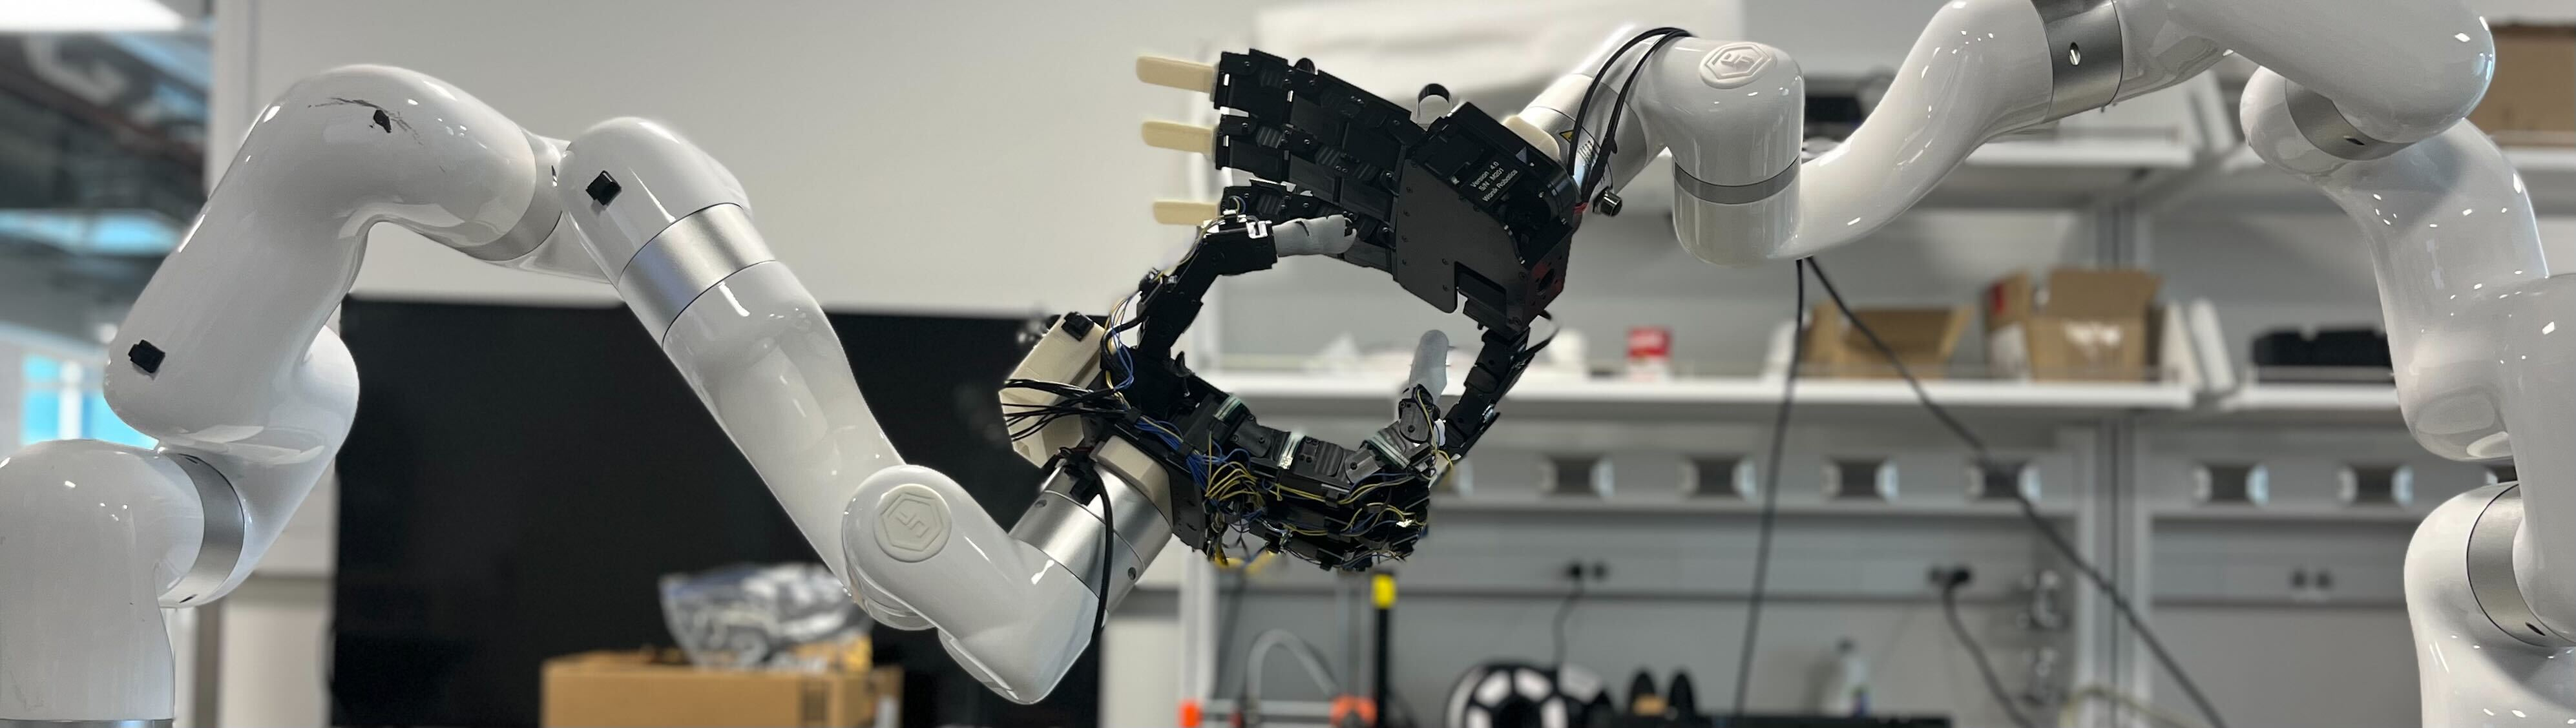
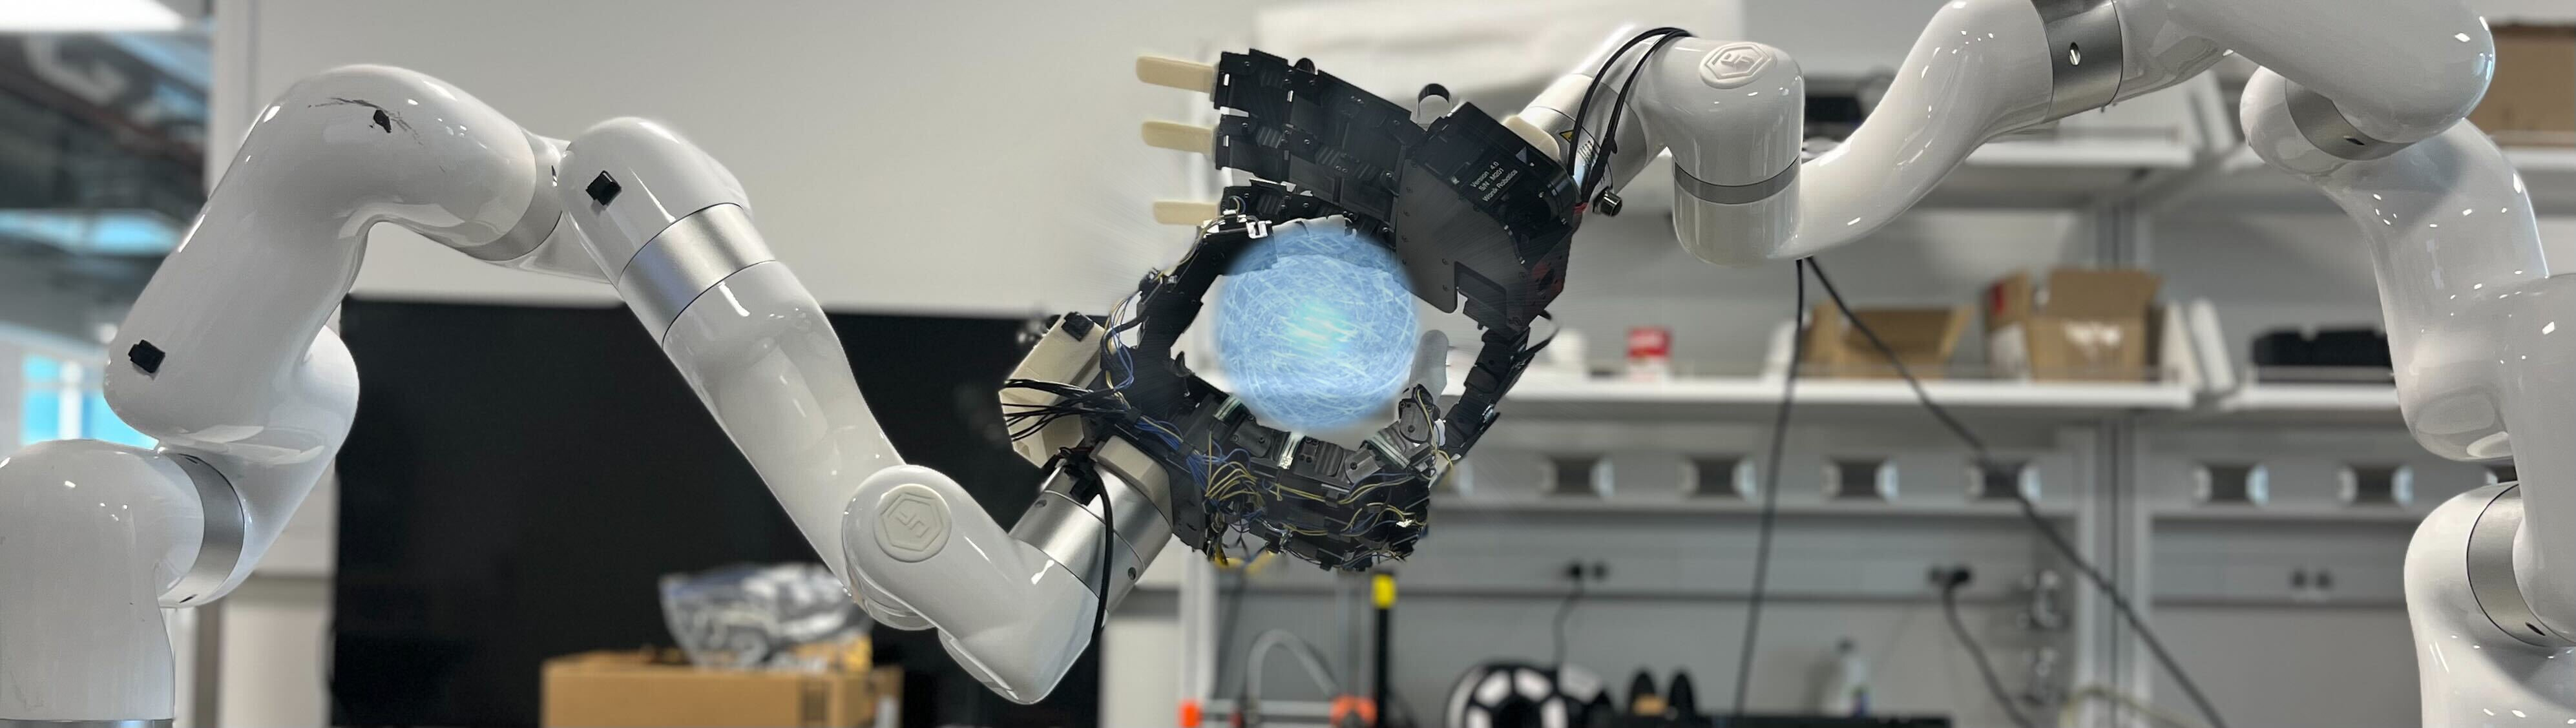
update

Changed region(s): [[0.4043, 0.3106, 0.5909, 0.7764], [0.4665, 0.1242, 0.5909, 0.2795]]

diff --git a/index.html b/index.html
@@ -131,29 +131,6 @@
             <a href="https://space.bilibili.com/1560961">Bilibili Video Channel</a>
 
 
-            <h3 id="professional service">Mentoring</h3>
-            <p style="background-color: lightyellow;">
-              I am always interested in mentoring highly-motivated undergrads/masters in ME/ECE/CS. If you are at
-              <b style="color: rgb(12, 140, 199);"> Columbia</b> (preferred) and want to discuss project ideas/research
-              opportunities, please feel free to shoot
-              me an email. 
-
-            </p>
-            I focus on <b>
-              <font color="firebrick">Robot Learning</font>
-            </b> and aim to significantly expand robots' perception and physical interaction
-            capabilities, particularly through the following three directions:
-            <ul>
-              <li><b style="color: firebrick;">Multi-Modal Perception:</b> Development of tactile sensing hardware and
-                multi-modal learning systems, especially for visuo-tactile sensing.</li>
-              <li><b style="color: firebrick;">Dexterous Manipulation:</b> Learning with multi-finger hands to equip
-                robots with human-level dexterity. Expertise in
-                robot control and teleoperation is highly desirable.</li>
-              <li><b style="color: firebrick;">Learning with Dynamic Tasks:</b> Addressing challenging tasks that
-                require dynamic robot motions such as throwing, catching, and contact-rich interactions. </li>
-            </ul>
-
-
             <h3 id="professional service">News</h3>
             <div class="row">
               <div class="col-md-4">
@@ -644,7 +621,7 @@
                     <source src="videos/mobile_robot_2.mp4" type="video/mp4" />
                   </video>
                 </div>
-                <h2 class="title is-5"> Navigation in SImulation </h2>
+                <h2 class="title is-5"> Navigation in Simulation </h2>
               </div>
 
               <div class="column">
@@ -748,34 +725,6 @@
             <br />
 
 
-            <!-- <h3 id="professional service">Media Coverage</h3>
-
-            <a href="https://www.scientificamerican.com/article/new-robot-hand-works-by-feel-not-sight/">
-              <img src="images/media/scientific_american.png" alt="Button Image" style="max-height: 80px;">
-            </a>
-
-            <a href="https://cosmosmagazine.com/technology/robotics/robot-hands-touch/">
-              <img src="images/media/cosmos.jpeg" alt="Button Image" style="max-height: 80px;">
-            </a>
-
-            <a href="https://techxplore.com/news/2023-07-robotic-rotates-vision.html">
-              <img src="images/media/techxplore.png" alt="Button Image" style="max-height: 80px;">
-            </a>
-
-            <a href="https://today.ucsd.edu/story/robotic-hand-rotates-objects-using-touch-not-vision">
-              <img src="images/media/ucsd.png" alt="Button Image" style="max-height: 80px;">
-            </a>
-
-            <a href="https://www.unite.ai/a-new-dawn-in-robotics-touch-based-object-rotation/">
-              <img src="images/media/uniteai.png" alt="Button Image" style="max-height: 80px;">
-            </a>
-
-            <a
-              href="https://www.hackster.io/news/anyteleop-lets-you-control-robot-arms-and-hands-from-anywhere-with-just-a-camera-e26a39ed199e">
-              <img src="images/media/hackster.png" alt="Button Image" style="max-height: 45px;">
-            </a> -->
-
-
 
             <h3 id="interests">Interests</h3>
             <!-- <h4><a href="https://space.bilibili.com/1560961" target="_blank"
@@ -835,90 +784,7 @@
 
             <br />
 
-            <!-- <h4>Sad Stories with Robots</h4>
-            <p>
-              I possess practical experience in both building and repairing a wide range of robotic equipment. In doing
-              so, I have encountered and addressed various dangerous situations, including instances where a robot lost
-              control, a robot motor caught on fire, and a gearbox became damaged.
-            <div class="columns is-centered has-text-centered">
-              <div class="column">
 
-                <div style="text-align:center; width: 104%;">
-                  <picture width="99%" style="border-radius:10px; ">
-                    <img src="images/dog.jpg">
-                  </picture>
-                </div>
-                <h2 class="title is-5"> Mobile Robot on Fire</h2>
-              </div>
-
-              <div class="column">
-
-                <div style="text-align:center; width: 104%;">
-                  <picture width="99%" style="border-radius:10px; ">
-                    <img src="images/robot_repair2.jpg">
-                  </picture>
-                </div>
-                <h2 class="title is-5"> Mobile Robot Repairing</h2>
-              </div>
-
-              <div class="column">
-
-                <div style="text-align:center; width: 104%;">
-                  <picture width="99%" style="border-radius:10px; ">
-                    <img src="images/robot_repair3.jpg">
-                  </picture>
-                </div>
-                <h2 class="title is-5"> Allegro Hand Repairing</h2>
-              </div>
-
-            </div>
-            </p>
-            <br /> -->
-
-            <!-- <h4>NEXTEV Formula Student Electric China (FSEC),Sep 2017</h4>
-            <p>
-              In, Nextev Formula Student Electric China (FSEC) team, I took on the role of designing
-              the steering system for our formula car. The patent, titled "A Kind of University Student's Equation
-              Motorcycle
-              Race Steering, Manufacture and Its Installation Method," was granted under the number 2017105998790.1.
-              <br />
-              <a href="https://patents.google.com/patent/CN107685763A/en" target="_blank"
-                style="text-decoration: underline;">[Google Patent]</a>,
-              <a href="https://patentimages.storage.googleapis.com/24/92/c6/d4dc358437cecc/CN107685763A.pdf"
-                target="_blank" style="text-decoration: underline;">[pdf]</a>
-            <div class="columns is-centered has-text-centered">
-              <div class="column">
-
-                <div style="text-align:center; width: 104%;">
-                  <picture width="99%" style="border-radius:10px; ">
-                    <img src="images/formula1.jpg">
-                  </picture>
-                </div>
-
-              </div>
-
-              <div class="column">
-
-                <div style="text-align:center; width: 104%;">
-                  <picture width="99%" style="border-radius:10px; ">
-                    <img src="images/formula2.jpg">
-                  </picture>
-                </div>
-
-              </div>
-
-              <div class="column">
-
-                <div style="text-align:center; width: 104%;">
-                  <picture width="99%" style="border-radius:10px; ">
-                    <img src="images/formula3.jpg">
-                  </picture>
-                </div>
-
-              </div>
-
-            </div>
-            </p> -->
             <br />
 
             <div style="text-align:center; width: 33%;">
@@ -927,7 +793,7 @@
             </div>
 
             <br />
-            Update: 2025.09
+            Update: 2026.02
             <br /><br />
             Credit: web source from <a href="http://hansf.me/" target="_blank" style="text-decoration: underline;">Dr.
               Songfang Han</a>
